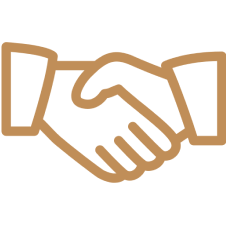
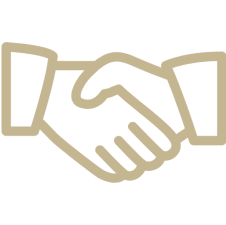
colors

Changed region(s): [[0.0, 0.1867, 1.0, 0.84]]

diff --git a/app/about-us/page.jsx b/app/about-us/page.jsx
@@ -43,7 +43,7 @@ const page = () => {
         <div className='flex flex-col items-center gap-3 px-10 md:px-0'>
             <h3 className={`${dmsans.className} text-[#101010] tracking-tight`}>Learn About What Drives Us</h3>
             <div className='w-40 md:w-80 bg-gradient-to-r from-[#ffffff] via-[#C5B692] to-[#ffffff] h-[2px]'></div>
-            <h1 className={`${federo.className} text-5xl md:text-6xl tracking-tight bg-gradient-to-r from-[#C08E58] to-[#C5B692] inline-block text-transparent bg-clip-text pb-5`}>Our Mission</h1>
+            <h1 className={`${federo.className} text-5xl md:text-6xl tracking-tight bg-gradient-to-r from-[#C5B692] to-[#C5B692] inline-block text-transparent bg-clip-text pb-5`}>Our Mission</h1>
             <p className={`${dmsans.className} text-black md:text-md tracking-tight md:px-28 text-center`}>Welcome to Q Stone Designs, a family owned jewelry manufacturing company with over 15 years of experience in creating timeless pieces. We are proud to be a 360° jewelry solution provider, supporting businesses from small retailers to large clients, offering everything from design to production. </p>
             <p className={`${dmsans.className} text-black md:text-md tracking-tight md:px-28 text-center`}>Our extensive network of trusted contacts allows us to source the finest diamonds and gemstones and Precious Metals. Our in-house lab-grown diamond facility, launched in 2022, provides an ethical and sustainable alternative. Working with top designers from around the world, we bring your vision to life with unparalleled craftsmanship and creativity.</p>
             <p className={`${dmsans.className} text-black md:text-md tracking-tight md:px-28 text-center`}>Beyond business, we are committed to giving back, supporting impactful initiatives, and promoting ethical practices within the jewelry industry.</p>
@@ -60,7 +60,7 @@ const page = () => {
             })}
         </div>
         <div className='flex flex-col gap-3 items-center py-10'>
-            <h1 className={`${federo.className} text-3xl tracking-tight text-[#070706] text-center`}>Why Choose Us?</h1>
+            <h1 className={`${federo.className} text-3xl tracking-tight text-[#C5B692] text-center`}>Why Choose Us?</h1>
             <div className='w-40 md:w-80 bg-gradient-to-r from-[#ffffff] via-[#C5B692] to-[#ffffff] h-[2px]'></div>
             <p className={`${dmsans.className} tracking-tight text-center w-3/4 pt-10`}>At Q Stone Designs, our in-house lab-grown diamond facility and extensive network for sourcing natural stones enable us to offer you competitive rates on both diamonds and gemstones, all certified by IGI and GIA. We provide on-demand designers to collaborate with you or your clients to fulfill custom needs, while our worldwide shipping ensures hassle-free delivery. We support your business growth with cost-effective methods and advanced technology.</p>
         </div>

diff --git a/app/services/[serviceID]/page.jsx b/app/services/[serviceID]/page.jsx
@@ -236,44 +236,46 @@ const federo = Federo({
 
   async function getData(slug) {
     const data = await client.fetch(
-        `*[_type == "service" && slug.current == $slug][0] {
-            _id,
-            serviceName,
-            serviceShortDesc,
-            serviceVideo,
-            slug,
-            images[] {
-                asset -> {
-                    _id,
-                    url
-                },
-                alt
-            },
-            highlights[] {
-                title,
-                description
-            },
-            serviceLongDesc[] {
-                _type,
-                style,
-                children[]{
-                    _key,
-                    text,
-                    marks
-                },
-                list
-            }
-        }`,
-        { slug }
+      `*[_type == "service" && slug.current == $slug] | order(order asc)[0] {
+          _id,
+          serviceName,
+          serviceShortDesc,
+          serviceVideoLink,
+          slug,
+          order, // Include the 'order' field
+          images[] {
+              asset -> {
+                  _id,
+                  url
+              },
+              alt
+          },
+          highlights[] {
+              title,
+              description
+          },
+          serviceLongDesc[] {
+              _type,
+              style,
+              children[]{
+                  _key,
+                  text,
+                  marks
+              },
+              list
+          }
+      }`,
+      { slug }
     );
-
+  
     if (data) {
-        return data; // Return the first item from the array (or the object in this case)
+      return data; // Return the first item from the array (or the object in this case)
     } else {
-        console.error('No data found for the service');
-        return null;
+      console.error("No data found for the service");
+      return null;
     }
-}
+  }
+  
   
 
 const page = async ({ params }) => {
@@ -338,11 +340,11 @@ const page = async ({ params }) => {
               )
             })}
           </div>
-          {service.serviceVideo && (
+          {service.serviceVideoLink && (
               <iframe
                 width="560"
                 height="315"
-                src={service.serviceVideo}
+                src={`${service.serviceVideoLink}&autoplay=1`}
                 title="YouTube video player"
                 frameBorder="0"
                 allow="accelerometer; autoplay; clipboard-write; encrypted-media; gyroscope; picture-in-picture; web-share"

diff --git a/app/services/page.jsx b/app/services/page.jsx
@@ -197,8 +197,8 @@
                   <NavBar />
                   <div className='flex flex-col items-center gap-3 px-10 md:px-0'>
                       <h3 className={`${dmsans.className} text-[#101010] tracking-tight`}>Because Your Style Deserves Uniqueness</h3>
-                      <div className='w-40 md:w-80 bg-gradient-to-r from-[#ffffff] via-[#AE7C53] to-[#ffffff] h-[2px]'></div>
-                      <h1 className={`${federo.className} text-5xl md:text-6xl tracking-tight bg-gradient-to-r from-[#C08E58] to-[#AE7C53] inline-block text-transparent bg-clip-text`}>Our Services</h1>
+                      <div className='w-40 md:w-80 bg-gradient-to-r from-[#ffffff] via-[#C5B692] to-[#ffffff] h-[2px]'></div>
+                      <h1 className={`${federo.className} text-5xl md:text-6xl tracking-tight bg-gradient-to-r from-[#C5B692] to-[#C5B692] inline-block text-transparent bg-clip-text`}>Our Services</h1>
                       <p className={`${dmsans.className} text-black md:text-md tracking-tight md:px-28 text-center`}>Crafted with precision and passion, our jewelry is designed to reflect your individuality, offering timeless elegance that complements your unique style and grace.</p>
                   </div>
                   <div className="flex gap-10 flex-col py-10 px-5">

diff --git a/app/contact-us/page.jsx b/app/contact-us/page.jsx
@@ -22,7 +22,7 @@ const page = () => {
         <div className='flex flex-col items-center md:items-start gap-3 px-10 py-5 md:py-10 md:px-0'>
             <h3 className={`${dmsans.className} text-[#101010] tracking-tight`}>Reach out now for a quote</h3>
             <div className='w-40 md:w-80 bg-gradient-to-r from-[#C5B692] to-[#ffffff] h-[2px]'></div>
-            <h1 className={`${federo.className} text-5xl md:text-6xl tracking-tight bg-gradient-to-r from-[#C08E58] to-[#C5B692] inline-block text-transparent bg-clip-text`}>Contact Us</h1>
+            <h1 className={`${federo.className} text-5xl md:text-6xl tracking-tight bg-gradient-to-r from-[#C5B692] to-[#C5B692] inline-block text-transparent bg-clip-text`}>Contact Us</h1>
             <div className={`flex flex-col text-[#101010] ${dmsans.className} tracking-tighter md:w-1/2 gap-5`}>
                 <p>Email, call or complete the form to learn how Q Stone Designs can help you with your needs.</p>
                 <a href="mailto:info@qstone.com">info@qstone.com</a>
